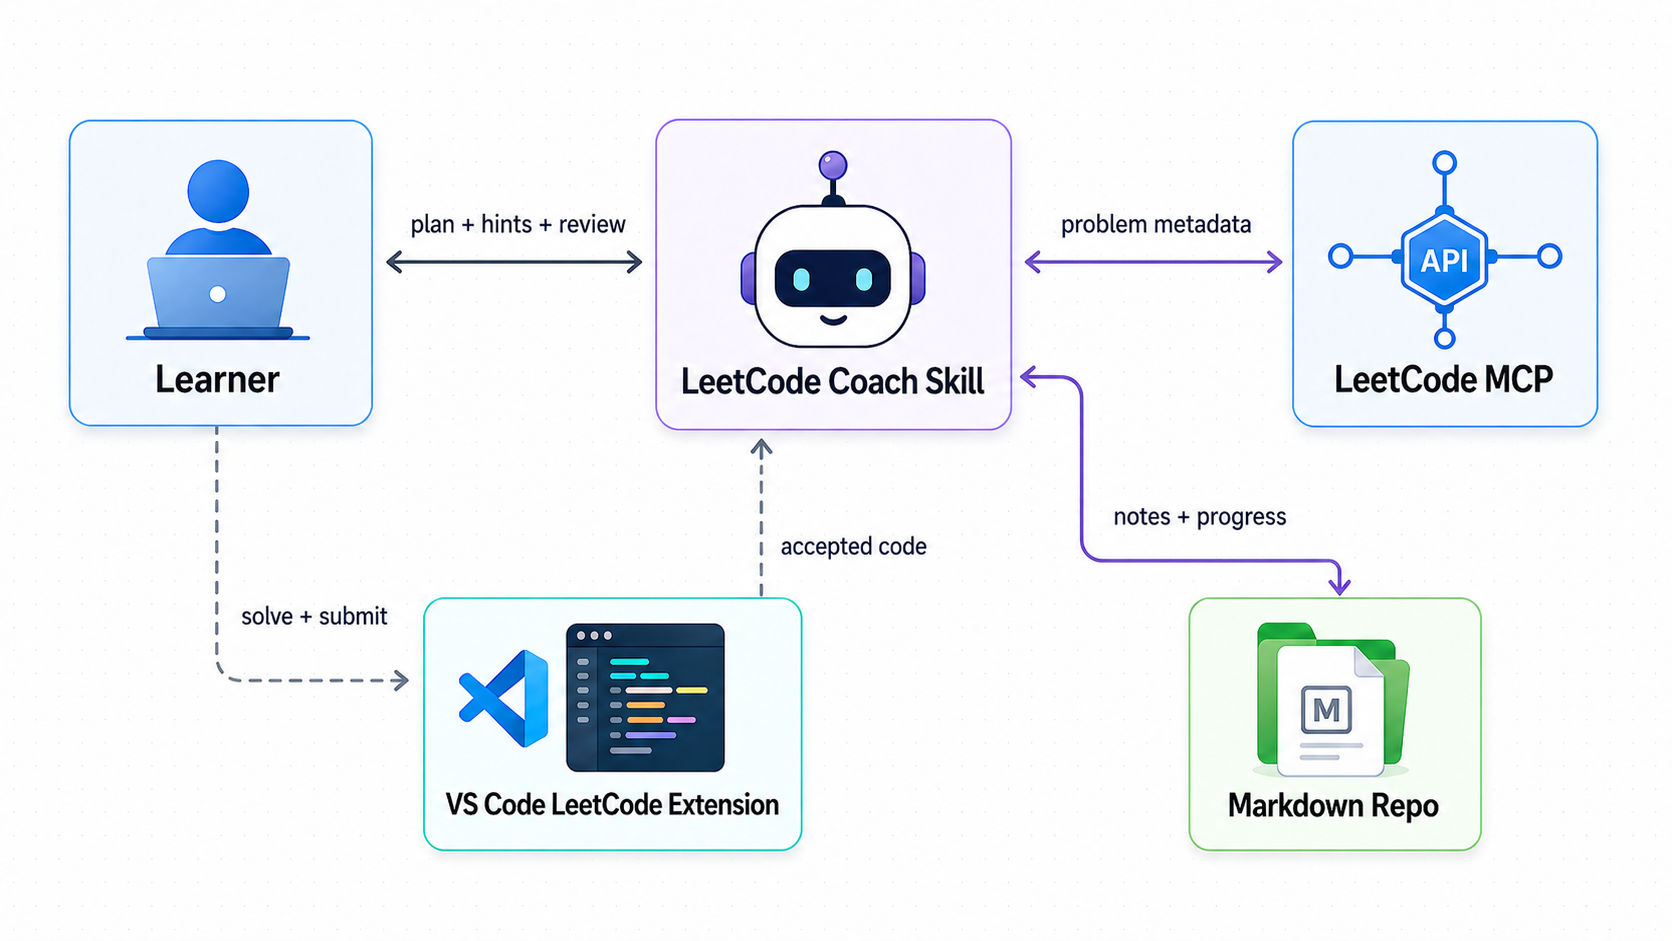
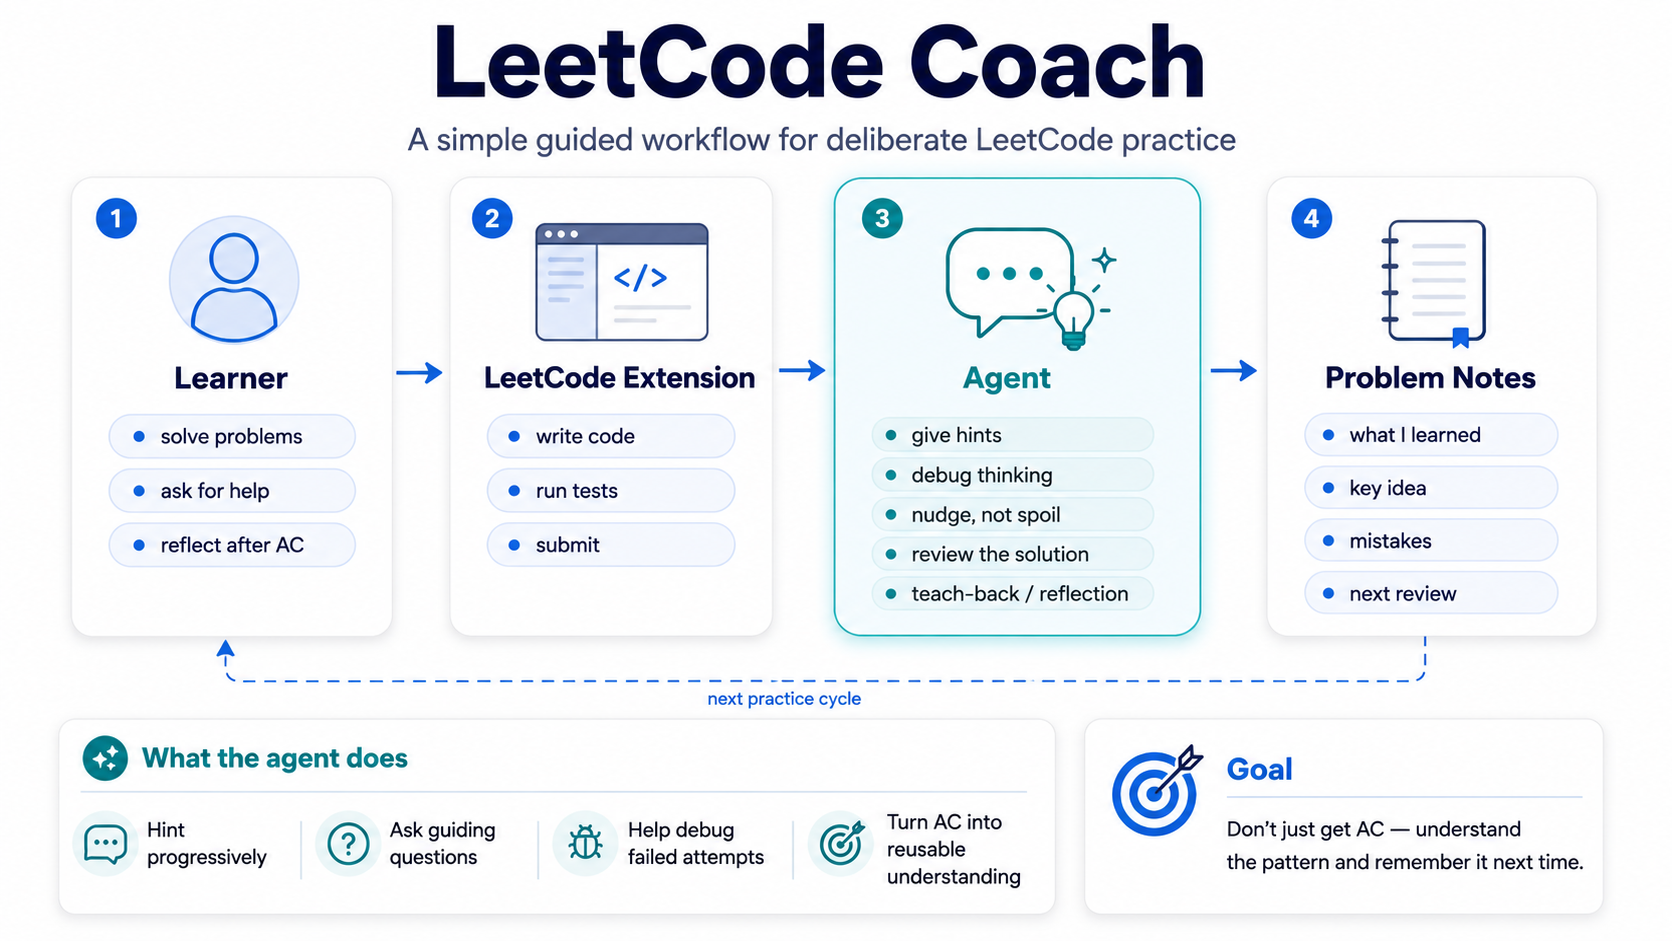
Refresh README and add MIT license

diff --git a/README.md b/README.md
@@ -1,99 +1,101 @@
 # LeetCode Coach
 
-LeetCode Coach is a Codex-assisted practice workspace for planning sessions, solving in VS Code, reviewing mistakes, and turning accepted solutions into durable notes.
+[![Checks](https://github.com/guanyipengai/leetcode-coach/actions/workflows/leetcode-coach-check.yml/badge.svg)](https://github.com/guanyipengai/leetcode-coach/actions/workflows/leetcode-coach-check.yml)
+![Python](https://img.shields.io/badge/Python-3.11%2B-3776AB)
+![Codex Skill](https://img.shields.io/badge/Codex-Skill-111827)
+![VS Code](https://img.shields.io/badge/VS%20Code-LeetCode%20extension-007ACC)
+![Status](https://img.shields.io/badge/status-alpha-yellow)
 
-You solve with the VS Code LeetCode extension. Codex runs the bundled `leetcode-coach` skill, fetches problem metadata through LeetCode MCP when needed, gives progressive hints, archives accepted code, and schedules spaced review from evidence.
+> A Codex skill and local study workspace that turns LeetCode practice into a review-driven coaching loop: solve in VS Code, get progressive hints, archive accepted solutions, and schedule evidence-based review.
 
-![LeetCode Coach architecture](assets/architecture.png)
+<p align="center">
+  <img src="assets/architecture.png" alt="LeetCode Coach architecture and learning loop" width="920">
+</p>
 
-## What This Repo Optimizes
 
-- Progressive coaching instead of answer dumping.
-- Daily plans that put due reviews before new problems.
-- Evidence-based metadata: attempts, hint level, solve time, first-try AC, judge failures, recall score, teach-back status, and training mode.
-- Adaptive review scheduling based on mastery, quality, hint usage, judge failures, and repeated mistake tags.
-- `No teach-back, no solid`: a problem should not be marked `solid` until you can explain the invariant, complexity, edge cases, and pattern boundary.
-- VS Code LeetCode submit flow with accepted solutions archived back into `problems/.../solution.py`.
-- Standard mistake taxonomy and pattern notes for reusable learning.
-- Local and CI checks through `make check`.
+## Why this exists
 
-## Quick Start
+AI can make LeetCode practice faster, but it can also make it easier to skip the hard part. This project is designed around a stricter loop:
 
-1. Clone the repository and open it in VS Code.
-2. Install and sign in to the VS Code LeetCode extension.
-3. Configure LeetCode MCP in Codex if it is not already available.
-4. Check the workspace:
+1. Review due problems before starting new ones.
+2. Ask for progressive hints instead of full solutions.
+3. Submit through the normal LeetCode workflow.
+4. Archive only your accepted code and your own explanations.
+5. Finish with teach-back before marking a problem as mastered.
+6. Schedule the next review from evidence: time, hints, judge failures, recall quality, and mistake tags.
+
+The goal is not to solve more problems with AI. The goal is to remember more of the problems you solve.
+
+## What it does
+
+- **Daily planning**: picks due reviews, active problems, and new problems from your active list.
+- **Progressive coaching**: gives hints, counterexamples, edge-case checks, and complexity review without defaulting to answer dumps.
+- **VS Code judge flow**: you solve and submit through the VS Code LeetCode extension under `workspace/leetcode/`.
+- **Accepted-code archive**: after AC, accepted code is copied into `problems/.../solution.py`.
+- **Evidence-based metadata**: tracks attempts, hint level, solve time, first-try AC, judge failures, recall score, teach-back status, and training mode.
+- **Adaptive spaced review**: schedules review based on mastery, quality, hints, failures, and repeated mistake patterns.
+- **Mistake taxonomy**: turns wrong answers into reusable weakness signals.
+- **Pattern notes**: turns repeated ideas into durable templates and decision boundaries.
+- **Local validation**: checks metadata and repository contracts with `make check`.
+
+## What it is not
+
+- It is not an official LeetCode project.
+- It is not a LeetCode problem mirror.
+- It is not an auto-submitter.
+- It is not a tool for copying full problem statements or private LeetCode content into Git.
+- It is not designed to replace your own reasoning during practice.
+
+## Quick start
+
+### 1. Clone and prepare the workspace
 
 ```bash
+git clone https://github.com/guanyipengai/leetcode-coach.git
+cd leetcode-coach
+cp -n study/profile.example.json study/profile.json 2>/dev/null || true
 make check
 ```
 
-5. Start a Codex session in this repository:
+### 2. Install the judge workflow
+
+Install the VS Code LeetCode extension, sign in, and open this repository in VS Code. The repository-level settings keep plugin-generated files under `workspace/leetcode/`, which is ignored by Git.
+
+Optional: configure LeetCode MCP for Codex if you want the coach to fetch problem metadata automatically.
+
+### 3. Start a coaching session
+
+In Codex, start with:
 
 ```text
 用 leetcode-coach，今天开始 LeetCode 训练。
 ```
 
-The coach should recover status, build a plan, initialize the selected problem when needed, guide the solve, review code or judge failures, archive accepted code, require teach-back, and schedule the next review.
-
-## Daily Workflow
-
-1. Recover state:
-
-```bash
-python3 .codex/skills/leetcode-coach/scripts/study.py status --brief
-python3 .codex/skills/leetcode-coach/scripts/study.py plan-day
-```
-
-2. Practice in this order: due reviews, existing `Doing` or `Review` problems, then active-list new problems.
-3. Solve and submit through the VS Code LeetCode extension under `workspace/leetcode/`.
-4. Ask Codex for progressive hints, edge-case checks, complexity review, or code review.
-5. After AC, archive the accepted plugin file:
-
-```bash
-python3 .codex/skills/leetcode-coach/scripts/study.py archive-solution --slug <slug> --from-plugin --mode standalone --with-tests
-```
-
-6. Finish with evidence and schedule review:
-
-```bash
-python3 .codex/skills/leetcode-coach/scripts/study.py finish \
-  --slug <slug> \
-  --status AC \
-  --mastery ok \
-  --mode guided-solve \
-  --quality 4 \
-  --hint-level 1 \
-  --solve-minutes 18 \
-  --first-try-ac true \
-  --teach-back true
-```
-
-## Training Modes
-
-- `blind-solve`: no hints unless requested, close to interview conditions.
-- `guided-solve`: progressive hints for new topics.
-- `redo-from-memory`: explain invariant, approach, complexity, and edge cases before coding.
-- `debug-drill`: start from failing code and isolate the smallest counterexample or fix direction.
-- `pattern-contrast`: compare nearby patterns and force a decision boundary.
-
-## Repository Structure
+or:
 
 ```text
-.codex/skills/leetcode-coach/  # Project skill, references, and helper script
-.github/workflows/             # CI validation
-.vscode/settings.json          # VS Code LeetCode project settings
-docs/                          # Demo and troubleshooting notes
-knowledge/mistake-taxonomy.md  # Standard mistake tags
-knowledge/patterns/            # Reusable pattern notes
-lists/                         # Study lists by LeetCode slug
-problems/                      # One directory per initialized problem
-study/goals.md                 # Learning goals and current focus
-study/profile.json             # Personal preferences and active list
-study/profile.example.json     # Reference profile for migration
-study/sessions/                # Daily session logs
-templates/                     # Note/session/pattern/code templates
-workspace/leetcode/            # Ignored VS Code LeetCode submit workspace
+Use leetcode-coach. Start today's LeetCode practice.
+```
+
+The coach should recover your current state, plan due reviews before new work, initialize the selected problem when needed, guide the solve, review code or judge failures, archive accepted code, require teach-back, and schedule the next review.
+
+
+## Repository layout
+
+```text
+.codex/skills/leetcode-coach/      # Codex skill, references, and helper script
+.github/workflows/                 # CI validation
+.vscode/settings.json              # VS Code LeetCode workspace settings
+docs/                              # Demo and troubleshooting notes
+knowledge/mistake-taxonomy.md      # Standard mistake tags
+knowledge/patterns/                # Reusable pattern notes
+lists/                             # Study lists by LeetCode slug
+problems/                          # One directory per initialized problem
+study/goals.md                     # Learning goals and current focus
+study/profile.json                 # Personal preferences and active list
+study/sessions/                    # Daily session logs
+templates/                         # Note, session, pattern, and code templates
+workspace/leetcode/                # Ignored VS Code LeetCode submit workspace
 ```
 
 Problem folders are grouped by frontend ID:
@@ -107,9 +109,9 @@ problems/
       test_solution.py
 ```
 
-## Data Model
+## Data model
 
-Each `note.md` starts with a JSON metadata block. That block is the source of truth for progress:
+Each `note.md` starts with a JSON metadata block. That block is the source of truth for progress; lists and sessions are derived views or logs.
 
 ```json
 {
@@ -137,20 +139,17 @@ Each `note.md` starts with a JSON metadata block. That block is the source of tr
 }
 ```
 
-Lists are views, sessions are logs, and pattern notes are reusable knowledge. The detailed asset contract lives in `.codex/skills/leetcode-coach/references/repo-contract.md`.
+A problem should not be marked `solid` until teach-back is complete. In practice, that means you can explain:
 
-## Helper Commands
+- the invariant or state definition;
+- why the chosen pattern works;
+- time and space complexity;
+- the easiest edge case to miss;
+- when this pattern does not apply.
 
-```bash
-python3 .codex/skills/leetcode-coach/scripts/study.py next
-python3 .codex/skills/leetcode-coach/scripts/study.py due
-python3 .codex/skills/leetcode-coach/scripts/study.py mistakes
-python3 .codex/skills/leetcode-coach/scripts/study.py plugin-files --slug <slug>
-python3 .codex/skills/leetcode-coach/scripts/study.py log-session --problems "<slug>" --summary "<summary>" --next "<next>"
-python3 .codex/skills/leetcode-coach/scripts/study.py finalize-session
-```
+## Helper commands
 
-Validation and migration:
+Make targets:
 
 ```bash
 make check
@@ -159,9 +158,9 @@ make migrate-preview
 make migrate
 ```
 
-## VS Code LeetCode Integration
+## VS Code LeetCode integration
 
-This repo includes project-level settings for the VS Code LeetCode extension:
+This repo expects project-level settings similar to:
 
 ```json
 {
@@ -172,38 +171,61 @@ This repo includes project-level settings for the VS Code LeetCode extension:
 }
 ```
 
-Plugin-generated files are ignored by Git. They are for online judge interaction only. The coach archives accepted code into the matching problem directory after you report AC.
+Plugin-generated files are temporary judge files. They should stay ignored by Git. The durable archive lives under `problems/.../` after AC.
 
-## Upgrading Older Notes
+## Upgrading older notes
 
-Older problem notes may not have `stats` or `Teach Back`. Preview the migration first:
+Older problem notes may not include `stats` or `Teach Back`. Preview migration before writing changes:
 
 ```bash
 make migrate-preview
 ```
 
-Apply it when the preview looks correct:
+Apply migration:
 
 ```bash
 make migrate
-```
-
-Then validate:
-
-```bash
 make check
 ```
 
-Use `make strict-check` when you want to enforce that `solid` problems have teach-back evidence.
+Use strict validation when you want to enforce teach-back evidence for `solid` problems:
 
-## Privacy And Copyright
+```bash
+make strict-check
+```
 
-- This is not an official LeetCode project.
-- This is not a problem mirror, auto-solver, or auto-submitter.
-- Do not commit LeetCode cookies, CSRF tokens, session values, or copied full problem statements.
-- Store links, metadata, your own explanations, your own mistakes, and your own solutions.
-- LeetCode content is governed by [LeetCode Terms](https://leetcode.com/terms).
+## Project status
+
+This project is usable as a personal LeetCode training workspace, but it is still early. The most stable parts are the repository contract, problem note format, and deterministic helper commands. Before using it as a public template, consider adding `CONTRIBUTING.md`, `CODE_OF_CONDUCT.md`, and `SECURITY.md`.
+
+## Roadmap
+
+- richer mistake and review dashboards;
+- more pattern-note templates and examples;
+- coaching behavior evals, especially for answer-dumping prevention;
+- problem-list import and export helpers;
+- optional LangGraph runtime for resumable multi-step coaching sessions;
+- installable Codex plugin packaging.
+
+## Privacy and copyright
+
+- Do not commit LeetCode cookies, CSRF tokens, session values, or other secrets.
+- Do not commit copied full problem statements.
+- Store links, metadata, your own explanations, your own mistakes, and your own accepted solutions.
+- LeetCode content is governed by the LeetCode Terms of Service.
+
+## Contributing
+
+Issues and pull requests are welcome, especially for:
+
+- clearer workflows and documentation;
+- additional validation checks;
+- mistake taxonomy improvements;
+- pattern-note examples;
+- tests for `study.py`.
+
+Please keep the core principle intact: the coach should improve learning, not bypass it.
 
 ## License
 
-Add a license before publishing this as a public template.
+MIT License. See [LICENSE](LICENSE).
